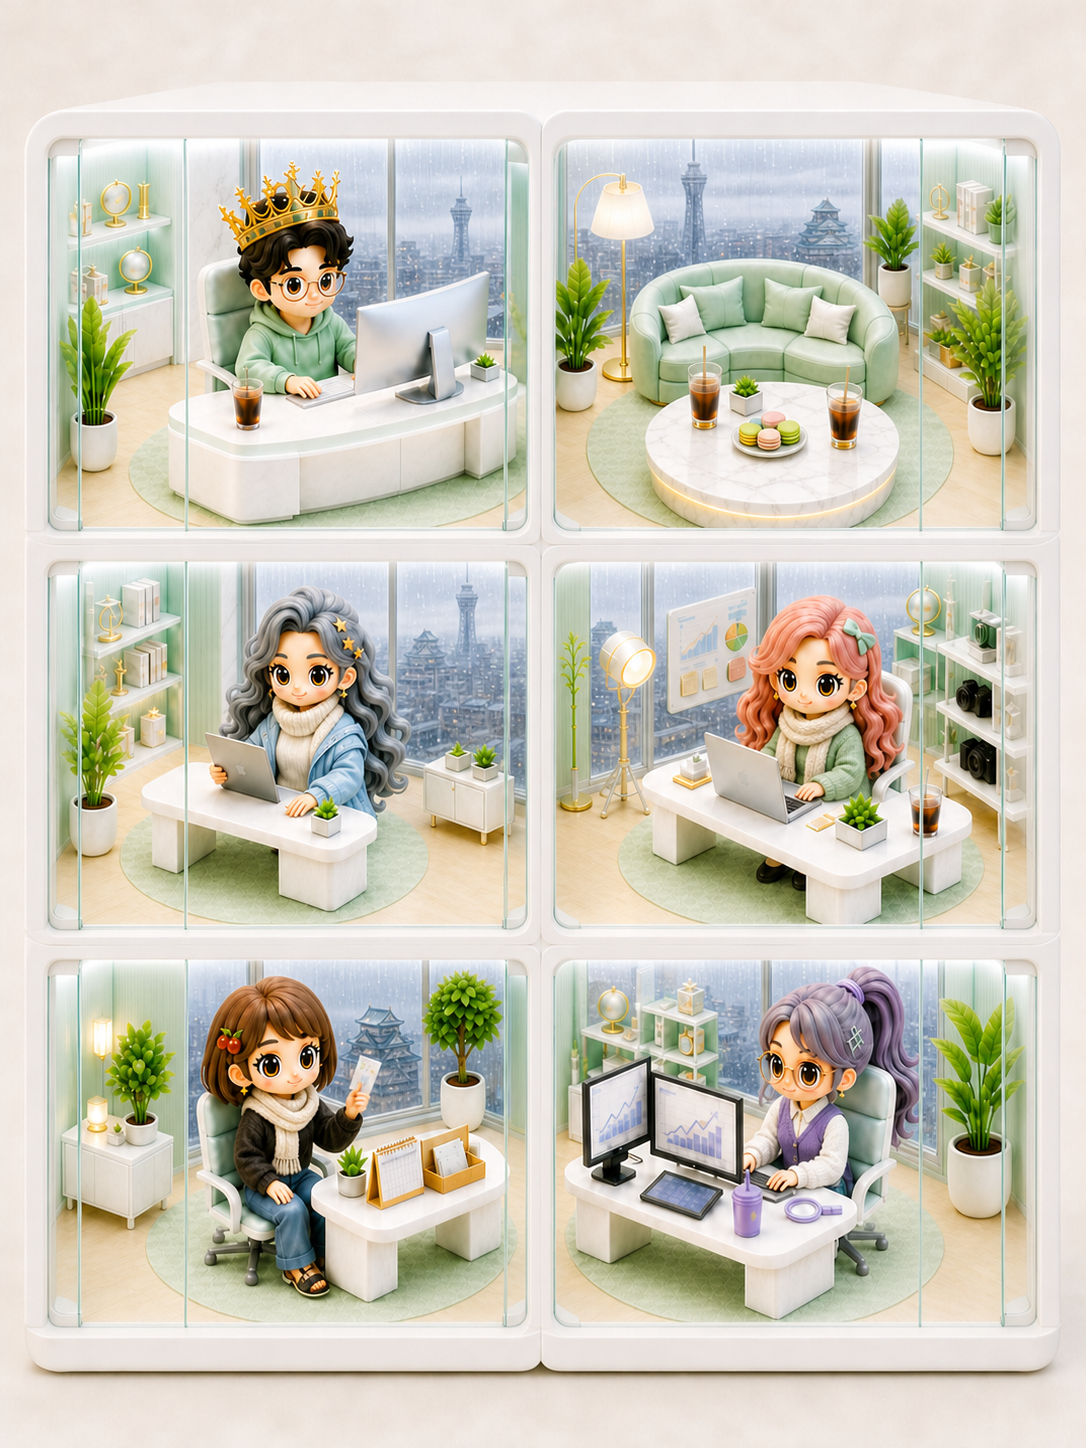
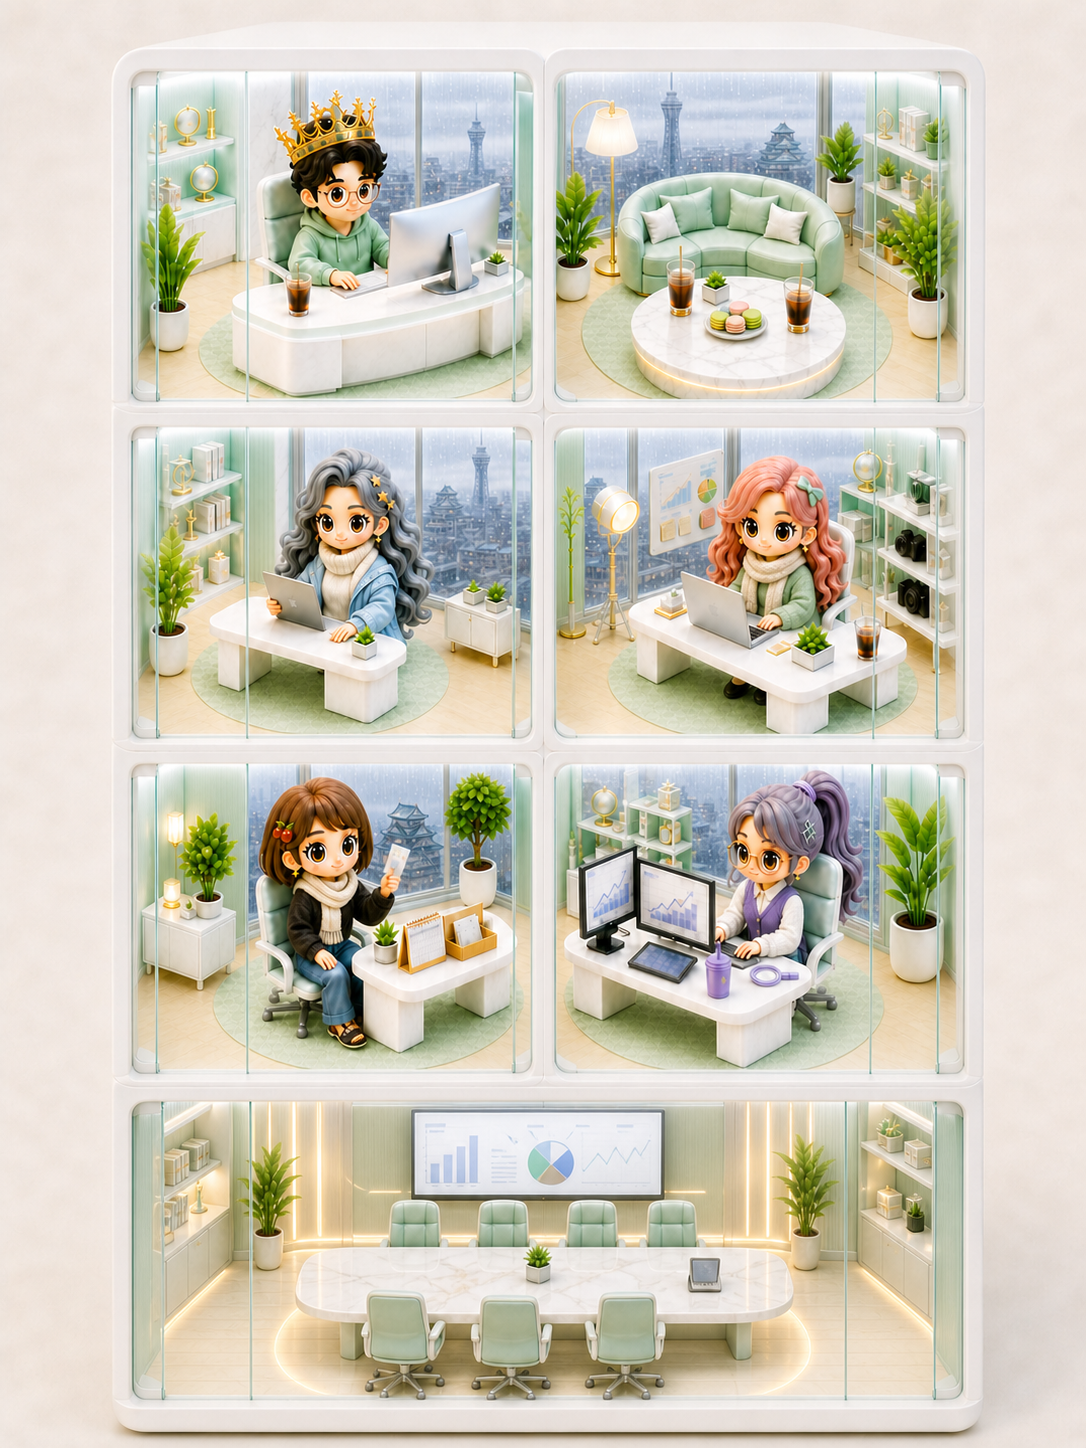
Add B1 grand conference room, adjust all coordinates, and send walkers to meetings

diff --git a/index.html b/index.html
@@ -280,19 +280,20 @@
       <p>방 캐릭터를 누르면 담당 업무가, 아래 접수 큐 카드를 누르면 상세 메모까지 전부 열려요.</p>
     </div>
     <div class="map-wrap">
-      <img src="office.png?v=11" alt="MINT Office 3층 6실 빌딩">
+      <img src="office.png?v=12" alt="MINT Office 3층+지하 대회의실 빌딩">
       <div class="sky-fx" id="sky-fx"></div>
-      <button class="head-bubble boss" id="hb-세나" style="left:27%;top:7%;" onclick="showTab('approval', document.querySelectorAll('.tab-btn')[2])">👑 승인 0건</button>
-      <button class="head-bubble" id="hb-미향" style="left:27%;top:38%;" onclick="openMember('미향')">💬 ...</button>
-      <button class="head-bubble" id="hb-미유" style="left:73%;top:38%;" onclick="openMember('미유')">💬 ...</button>
-      <button class="head-bubble" id="hb-아카네" style="left:27%;top:66%;" onclick="openMember('아카네')">💬 ...</button>
-      <button class="head-bubble" id="hb-아이미" style="left:73%;top:66%;" onclick="openMember('아이미')">💬 ...</button>
-      <button class="pin" style="left:27%;top:32%;" onclick="openBoss()"><span class="pulse"></span>👑 CEO · 세나</button>
-      <button class="pin" style="left:73%;top:32%;" onclick="showTab('meeting', document.querySelectorAll('.tab-btn')[4])"><span class="pulse"></span>☕ 라운지 · 수다방</button>
-      <button class="pin" style="left:27%;top:62%;" onclick="openMember('미향')"><span class="pulse"></span>💙 총괄책임부장 · 미향</button>
-      <button class="pin" style="left:73%;top:62%;" onclick="openMember('미유')"><span class="pulse"></span>🌿 SNS부 · 미유</button>
-      <button class="pin" style="left:27%;top:92%;" onclick="openMember('아카네')"><span class="pulse"></span>🔑 숙박업부 · 아카네</button>
-      <button class="pin" style="left:73%;top:92%;" onclick="openMember('아이미')"><span class="pulse"></span>📊 전략부 · 아이미</button>
+      <button class="head-bubble boss" id="hb-세나" style="left:27%;top:5%;" onclick="showTab('approval', document.querySelectorAll('.tab-btn')[2])">👑 승인 0건</button>
+      <button class="head-bubble" id="hb-미향" style="left:27%;top:29%;" onclick="openMember('미향')">💬 ...</button>
+      <button class="head-bubble" id="hb-미유" style="left:73%;top:29%;" onclick="openMember('미유')">💬 ...</button>
+      <button class="head-bubble" id="hb-아카네" style="left:27%;top:52%;" onclick="openMember('아카네')">💬 ...</button>
+      <button class="head-bubble" id="hb-아이미" style="left:73%;top:52%;" onclick="openMember('아이미')">💬 ...</button>
+      <button class="pin" style="left:27%;top:24%;" onclick="openBoss()"><span class="pulse"></span>👑 CEO · 세나</button>
+      <button class="pin" style="left:73%;top:24%;" onclick="showTab('meeting', document.querySelectorAll('.tab-btn')[4])"><span class="pulse"></span>☕ 라운지 · 수다방</button>
+      <button class="pin" style="left:27%;top:47%;" onclick="openMember('미향')"><span class="pulse"></span>💙 총괄책임부장 · 미향</button>
+      <button class="pin" style="left:73%;top:47%;" onclick="openMember('미유')"><span class="pulse"></span>🌿 SNS부 · 미유</button>
+      <button class="pin" style="left:27%;top:70%;" onclick="openMember('아카네')"><span class="pulse"></span>🔑 숙박업부 · 아카네</button>
+      <button class="pin" style="left:73%;top:70%;" onclick="openMember('아이미')"><span class="pulse"></span>📊 전략부 · 아이미</button>
+      <button class="pin" style="left:50%;top:94%;" onclick="openConf()"><span class="pulse"></span>🤝 지하 대회의실 · 의견 정리</button>
       <div id="live-walkers"></div>
     </div>
     <div style="padding:0 14px;">
@@ -548,23 +549,31 @@ function renderBriefing() {
     }
   }
 }
+function openConf() {
+  showTab('queue', document.querySelectorAll('.tab-btn')[3]);
+  document.getElementById('queue-wrap').style.display='none';
+  document.getElementById('opinions-wrap').style.display='block';
+  document.getElementById('subtab-o-btn').classList.add('active');
+  document.getElementById('subtab-q-btn').classList.remove('active');
+}
 let liveTimer = null;
 function startLiveOffice() {
   const layer = document.getElementById('live-walkers');
   if (!layer) return;
   const homes = {
-    '미향': { x: 16, y: 51, emoji: '💙', say: ['오늘도 화이팅!', '일 잘 돌아가나~', '대표님 보고 가야지'] },
-    '미유': { x: 84, y: 51, emoji: '🌿', say: ['블로그 초안 쓰는 중', 'GA4 체크!', '아아 한 잔~'] },
-    '아카네': { x: 16, y: 80, emoji: '🔑', say: ['체크인 확인!', '메일함 이상 무', '게스트 후기 5점~'] },
-    '아이미': { x: 84, y: 80, emoji: '📊', say: ['수익화 분석 중', '교차검증 완료!', 'SEO 체크~'] },
+    '미향': { x: 16, y: 39, emoji: '💙', say: ['오늘도 화이팅!', '일 잘 돌아가나~', '대표님 보고 가야지'] },
+    '미유': { x: 84, y: 39, emoji: '🌿', say: ['블로그 초안 쓰는 중', 'GA4 체크!', '아아 한 잔~'] },
+    '아카네': { x: 16, y: 61, emoji: '🔑', say: ['체크인 확인!', '메일함 이상 무', '게스트 후기 5점~'] },
+    '아이미': { x: 84, y: 61, emoji: '📊', say: ['수익화 분석 중', '교차검증 완료!', 'SEO 체크~'] },
   };
   const spots = [
-    { name: '라운지', x: 72, y: 20, lines: ['☕ 라운지 휴식 중', '🍰 마카롱 꿀맛!', '💡 새 아이디어 떠올랐다!', '🌿 잠깐 쉬어가자~'] },
-    { name: '대표실', x: 36, y: 20, lines: ['👑 대표님 보고 중!', '✨ 잘 진행되고 있어요', '📋 확인 부탁드려요!'] },
-    { name: '미향방', x: 32, y: 50, lines: ['💬 미향아 잠깐만!', '🙌 오늘도 고생해!'] },
-    { name: '미유방', x: 67, y: 50, lines: ['🌿 미유야 글 잘 써져?', '📸 사진 예쁘다!'] },
-    { name: '아카네방', x: 32, y: 79, lines: ['🔑 아카네 예약 어때?', '📬 메일 확인 중?'] },
-    { name: '아이미방', x: 67, y: 79, lines: ['📊 아이미 숫자 어때?', '💡 전략 회의하자!'] },
+    { name: '라운지', x: 72, y: 15, lines: ['☕ 라운지 휴식 중', '🍰 마카롱 꿀맛!', '💡 새 아이디어 떠올랐다!', '🌿 잠깐 쉬어가자~'] },
+    { name: '대표실', x: 36, y: 15, lines: ['👑 대표님 보고 중!', '✨ 잘 진행되고 있어요', '📋 확인 부탁드려요!'] },
+    { name: '대회의실', x: 50, y: 84, lines: ['🤝 지하 대회의실 회의 중!', '📊 주간 전략 맞추는 중', '💡 다 같이 아이디어 회의!'] },
+    { name: '미향방', x: 32, y: 38, lines: ['💬 미향아 잠깐만!', '🙌 오늘도 고생해!'] },
+    { name: '미유방', x: 67, y: 38, lines: ['🌿 미유야 글 잘 써져?', '📸 사진 예쁘다!'] },
+    { name: '아카네방', x: 32, y: 60, lines: ['🔑 아카네 예약 어때?', '📬 메일 확인 중?'] },
+    { name: '아이미방', x: 67, y: 60, lines: ['📊 아이미 숫자 어때?', '💡 전략 회의하자!'] },
   ];
   layer.innerHTML = Object.entries(homes).map(([n, h]) =>
     `<div class="walker" id="wk-${n}" style="left:${h.x}%;top:${h.y}%;" onclick="openMember('${n}')">
